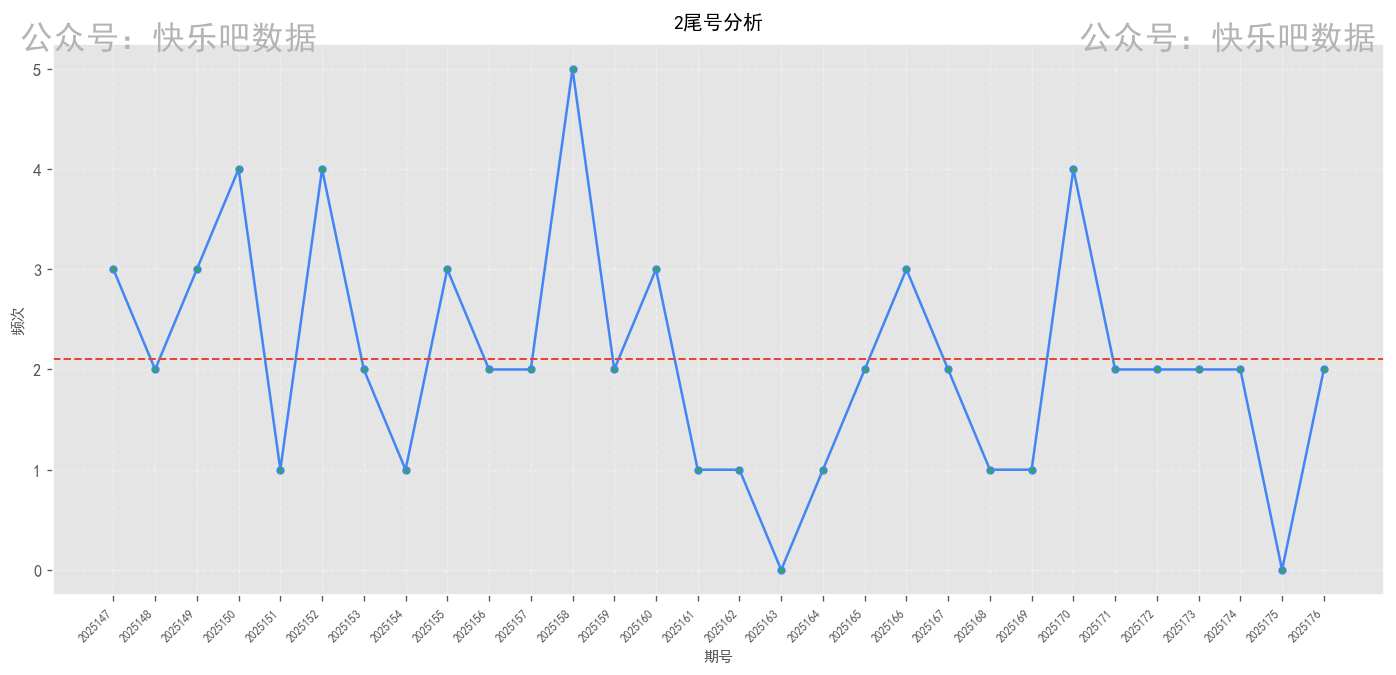
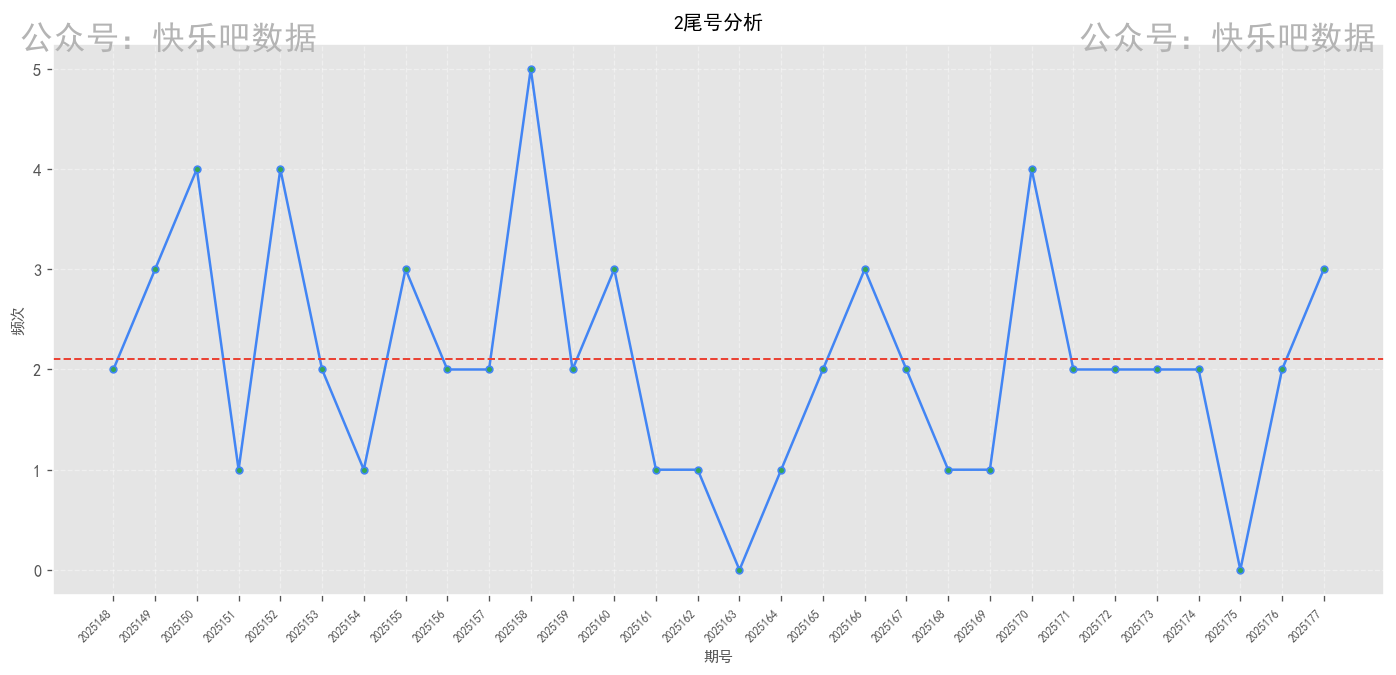
自动提交报告 20250706_2323

diff --git a/快乐8尾号分析项目/数据报告/20250706/report.html b/快乐8尾号分析项目/数据报告/20250706/report.html
@@ -440,7 +440,7 @@
                     <div class="label">尾号区间</div>
                 </div>
                 <div class="overview-card">
-                    <div class="value">2025176</div>
+                    <div class="value">2025177</div>
                     <div class="label">最新期号</div>
                 </div>
                 <div class="overview-card">
@@ -486,11 +486,11 @@
             <div class="stats-summary">
                 <div class="stat-item">
                     <span class="stat-label">历史平均</span>
-                    <span class="stat-value">2.33</span>
+                    <span class="stat-value">2.20</span>
                 </div>
                 <div class="stat-item">
                     <span class="stat-label">近期平均</span>
-                    <span class="stat-value">2.20</span>
+                    <span class="stat-value">2.00</span>
                 </div>
                 <div class="stat-item">
                     <span class="stat-label">最高频次</span>
@@ -512,7 +512,7 @@
                 </div>
                 <div class="stat-item">
                     <span class="stat-label">近期平均</span>
-                    <span class="stat-value">1.60</span>
+                    <span class="stat-value">1.80</span>
                 </div>
                 <div class="stat-item">
                     <span class="stat-label">最高频次</span>
@@ -530,11 +530,11 @@
             <div class="stats-summary">
                 <div class="stat-item">
                     <span class="stat-label">历史平均</span>
-                    <span class="stat-value">1.90</span>
+                    <span class="stat-value">1.87</span>
                 </div>
                 <div class="stat-item">
                     <span class="stat-label">近期平均</span>
-                    <span class="stat-value">1.80</span>
+                    <span class="stat-value">1.60</span>
                 </div>
                 <div class="stat-item">
                     <span class="stat-label">最高频次</span>
@@ -552,11 +552,11 @@
             <div class="stats-summary">
                 <div class="stat-item">
                     <span class="stat-label">历史平均</span>
-                    <span class="stat-value">1.73</span>
+                    <span class="stat-value">1.77</span>
                 </div>
                 <div class="stat-item">
                     <span class="stat-label">近期平均</span>
-                    <span class="stat-value">1.60</span>
+                    <span class="stat-value">1.00</span>
                 </div>
                 <div class="stat-item">
                     <span class="stat-label">最高频次</span>
@@ -574,11 +574,11 @@
             <div class="stats-summary">
                 <div class="stat-item">
                     <span class="stat-label">历史平均</span>
-                    <span class="stat-value">1.83</span>
+                    <span class="stat-value">1.93</span>
                 </div>
                 <div class="stat-item">
                     <span class="stat-label">近期平均</span>
-                    <span class="stat-value">2.60</span>
+                    <span class="stat-value">2.40</span>
                 </div>
                 <div class="stat-item">
                     <span class="stat-label">最高频次</span>
@@ -596,11 +596,11 @@
             <div class="stats-summary">
                 <div class="stat-item">
                     <span class="stat-label">历史平均</span>
-                    <span class="stat-value">2.13</span>
+                    <span class="stat-value">2.27</span>
                 </div>
                 <div class="stat-item">
                     <span class="stat-label">近期平均</span>
-                    <span class="stat-value">1.80</span>
+                    <span class="stat-value">2.40</span>
                 </div>
                 <div class="stat-item">
                     <span class="stat-label">最高频次</span>
@@ -618,7 +618,7 @@
             <div class="stats-summary">
                 <div class="stat-item">
                     <span class="stat-label">历史平均</span>
-                    <span class="stat-value">1.93</span>
+                    <span class="stat-value">1.83</span>
                 </div>
                 <div class="stat-item">
                     <span class="stat-label">近期平均</span>
@@ -640,11 +640,11 @@
             <div class="stats-summary">
                 <div class="stat-item">
                     <span class="stat-label">历史平均</span>
-                    <span class="stat-value">2.03</span>
+                    <span class="stat-value">2.00</span>
                 </div>
                 <div class="stat-item">
                     <span class="stat-label">近期平均</span>
-                    <span class="stat-value">3.00</span>
+                    <span class="stat-value">2.40</span>
                 </div>
                 <div class="stat-item">
                     <span class="stat-label">最高频次</span>
@@ -662,15 +662,15 @@
             <div class="stats-summary">
                 <div class="stat-item">
                     <span class="stat-label">历史平均</span>
-                    <span class="stat-value">1.80</span>
+                    <span class="stat-value">1.83</span>
                 </div>
                 <div class="stat-item">
                     <span class="stat-label">近期平均</span>
-                    <span class="stat-value">1.60</span>
+                    <span class="stat-value">2.60</span>
                 </div>
                 <div class="stat-item">
                     <span class="stat-label">最高频次</span>
-                    <span class="stat-value">4</span>
+                    <span class="stat-value">5</span>
                 </div>
             </div>
         </div>
@@ -690,7 +690,7 @@
         <div class="disclaimer">
             <div class="disclaimer-title"><i class="fas fa-exclamation-circle"></i> 法律声明</div>
             <p>本分析报告基于中国福利彩票官网公开数据制作，仅供历史数据分析与参考，严禁用于赌博或任何违法违规用途。</p>
-            <p>根据中国法律，禁止向未成年人传播彩票相关信息。数据统计周期: 2025147期-2025176期 | 生成时间: 2025-07-06 08:54</p>
+            <p>根据中国法律，禁止向未成年人传播彩票相关信息。数据统计周期: 2025148期-2025177期 | 生成时间: 2025-07-06 23:23</p>
         </div>
 
         <!-- 操作按钮 -->
